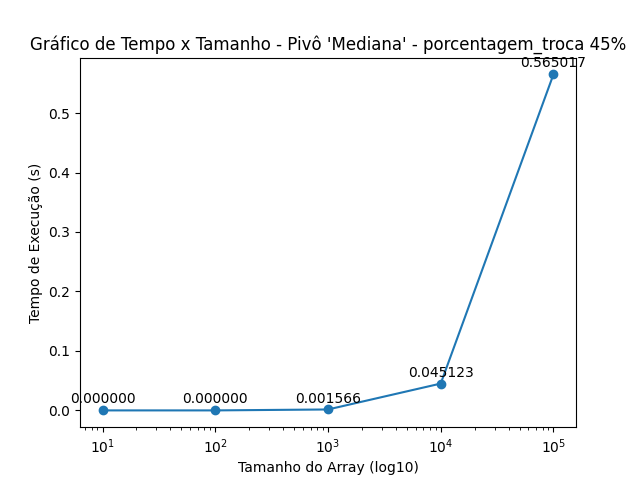
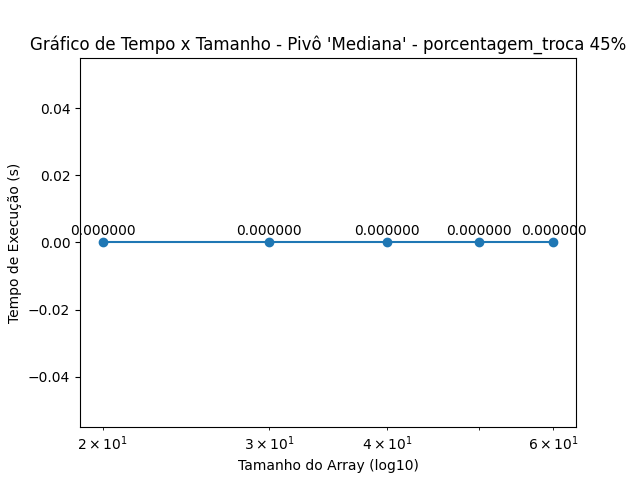
refatoração

diff --git a/QuickSort.py b/QuickSort.py
@@ -1,6 +1,10 @@
 import random
 import time
 
+import numpy as np
+
+from util import calcularMedia
+
 
 class QuickSort:
     def __init__(self, lista):
@@ -9,12 +13,10 @@ class QuickSort:
     def ordenar(self, array, metodo_pivo):
         tempo_inicio = time.time()
 
-        if(metodo_pivo == 6):
-            self.quick_sort_acha_pivo(array, 0, len(array) - 1)
-        else:
-            self.quick_sort(array, 0, len(array) - 1, metodo_pivo)
+        self.quickSort(array, 0, len(array) - 1, metodo_pivo)
 
         tempo_fim = time.time()
+        
         self.time = tempo_fim - tempo_inicio
 
     def seleciona_pivo(self, A, inicio, fim, metodo_pivo):
@@ -41,90 +43,78 @@ class QuickSort:
         # 5 – Pivô mediana
         elif metodo_pivo == 5:
             array = A[inicio:fim]
-            return self.find_median(array, len(array))
-            
-
-    # Function to perform quicksort
-    def quick_sort(self, A, start, end, metodo_pivo):
-        if start < end:
-            # p is pivot, it is now at its correct position
-            p = self.partition(A, start, end, metodo_pivo)
-            self.quick_sort(A, start, p, metodo_pivo)  # Corrigido
-            self.quick_sort(A, p+1, end, metodo_pivo)
-
-    def quick_sort_acha_pivo(self,L, n1, n2):
-        esq = n1
-        dir = n2
+            return self.buscaMediana(array, len(array))
         
-        pto = self.achaPivo(n1, n2, L)
-        
-        if pto != -1:
-            p = self.particao_acha_pivo(L, n1, n2, L[pto], pto)
-            self.quick_sort_acha_pivo(L, esq, p) 
-            self.quick_sort_acha_pivo(L, p + 1, dir)
+        # 6 – Pivô (Acha pivot)
+        elif metodo_pivo == 6:
+            return self.achaPivo(inicio, fim, A) 
 
+    def quickSort(self, array, low, high, pivot_type):
+        if low >= high:
+            return
 
-    def partition(self, A, start, end, metodo_pivo):
-        i = start-1  # left pointer
+        p = self.selecionaPivo(array, low, high, pivot_type)
+
+        if p is None:
+            return
+
+        i = low
+        j = high
+
+        while i <= j:
+            while array[i] < p:
+                i += 1
+
+            while array[j] > p:
+                j -= 1
+
+            if i <= j:
+                array[i], array[j] = array[j], array[i]
+                i += 1
+                j -= 1
+
+        if low < j:
+            self.quickSort(array, low, j, pivot_type)
+
+        if i < high:
+            self.quickSort(array, i, high, pivot_type)
+
+    def selecionaPivo(self, arr, low, high, pivot_type):
         
-        array = A[start:end]
-        pivot = self.seleciona_pivo(A, start, end, metodo_pivo)
-        
-        j = end + 1  # right pointer
+        if pivot_type == 1:
+            return arr[low]
+
+        if pivot_type == 2:
+            return arr[(high + low)//2]
+
+        if pivot_type == 3:
+            return calcularMedia(arr, low, high)
+
+        if pivot_type == 4:
+            return arr[np.random.randint(low, high+1)]
+
+        if pivot_type == 5:
+            array = arr[low:high]
+            return self.buscaMediana( array, len( array))
+
+        if pivot_type == 6:
+            return self.achaPivo(arr, low, high)
+
+    def achaPivo(self, L, n1, n2):
+        pos = n1 + 1
+        pivo = None
         while True:
-            i += 1
-            while (A[i] < pivot):
-                i += 1  # move left pointer to right
-            j -= 1
-            
-            while (A[j] > pivot):
-                j -= 1  # move right pointer to left
-                
-            if i >= j:
-                return j  # stop, pivot moved to its correct position
-            
-            A[i], A[j] = A[j], A[i]
-    
-    def particao_acha_pivo(self, L, n1, n2, pivo, p):
-        esq = n1
-        dir = n2
-        
-        while True:
-            while L[esq] <= pivo:
-                esq = esq + 1
-            while L[dir] > pivo:
-                dir = dir - 1
-            
-            if esq >= dir:
-                return dir  # Retorna o novo valor de p após a partição
-
-            # Troca L[esq] e L[dir]
-            L[esq], L[dir] = L[dir], L[esq]
-
-
-    def achaPivo(self, n1, n2, L):
-        esq = n1
-        dir = n2
-        pos = esq + 1
-        pto = -1
-        
-        while True:
-            if pos > dir:
+            if pos > n2:
                 break
+            elif L[pos] >= L[pos-1]:
+                pos += 1
             else:
-                if L[pos] >= L[pos - 1]:
-                    pos = pos + 1
-                else:
-                    pto = pos
-                    break
-        
-        # Retornar o ponto de inflexão encontrado
-        return pto
+                pivo = pos-1
+                break
 
-    def calcula_media(self, a, b, c):
-        return (a + b + c) // 3
+        return L[pivo] if pivo is not None else pivo
 
-    def particion_mediana(self, arr, l, r) : 
+    def particaoMediana(self, arr, l, r) : 
  
         lst = arr[r]; i = l; j = l; 
         while (j < r) :
@@ -137,13 +127,13 @@ class QuickSort:
         arr[i], arr[r] = arr[r],arr[i]; 
         return i; 
 
-    def random_partition_medina(self, arr, l, r) :
+    def particaoAleatorioMediana(self, arr, l, r) :
         n = r - l + 1
         pivot = random.randrange(1, 100) % n
         arr[l + pivot], arr[r] = arr[r], arr[l + pivot]
-        return self.particion_mediana(arr, l, r); 
+        return self.particaoMediana(arr, l, r); 
     
-    def median_util(self, arr, l, r, 
+    def utilMediana(self, arr, l, r, 
                     k, a1, b1) : 
     
         global a, b
@@ -151,7 +141,7 @@ class QuickSort:
         # if l < r
         if (l <= r) :
         
-            partitionIndex = self.random_partition_medina(arr, l, r)
+            partitionIndex = self.particaoAleatorioMediana(arr, l, r)
             
             if (partitionIndex == k) :
                 b = arr[partitionIndex]
@@ -164,25 +154,25 @@ class QuickSort:
                     return
     
             if (partitionIndex >= k) :
-                return self.median_util(arr, l, partitionIndex - 1, k, a, b)
+                return self.utilMediana(arr, l, partitionIndex - 1, k, a, b)
                 
             else :
-                return self.median_util(arr, partitionIndex + 1, r, k, a, b)
+                return self.utilMediana(arr, partitionIndex + 1, r, k, a, b)
                 
         return; 
     
-    def find_median(self, arr, n) :
+    def buscaMediana(self, arr, n) :
         global a
         global b
         a = -1
         b = -1
         
         if (n % 2 == 1) :
-            self.median_util(arr, 0, n - 1, n // 2, a, b)
+            self.utilMediana(arr, 0, n - 1, n // 2, a, b)
             ans = b
             
         else :
-            self.median_util(arr, 0, n - 1, n // 2, a, b)
+            self.utilMediana(arr, 0, n - 1, n // 2, a, b)
             ans = (a + b) // 2
             
         return ans

diff --git a/main.py b/main.py
@@ -1,23 +1,26 @@
+import random
 from QuickSort import QuickSort
-from mediana import trocar_porcentagem
-from util import plotar_e_salvar_grafico
+from util import plotar_e_salvar_grafico, trocar_porcentagem
 
 quantidade_iteracoes = 10
 
 tamanhos_array = [int(1e1) , int(1e2), int(1e3), int(1e4), int(1e5), int(1e6), int(1e7)]
-tamanhos_array = [int(1e1) , int(1e2), int(1e3), int(1e4), int(1e5)]
-# tamanhos_array = [10, 20, 30, 40, 50]
+# tamanhos_array = [int(1e1) , int(1e2), int(1e3), int(1e4), int(1e5)]
+# tamanhos_array = [20, 30, 40, 50, 60]
 
 porcentagens_troca = [5, 25, 45]
 
-metodos_pivo = [1, 2, 3, 4, 5, 6]
+metodos_pivo = [1, 2, 3, 4, 6, 5]
 
 metodos_pivo_nome = ["Primeiro", "Central",
                      "Média", "Randômico", "Mediana", "Acha Pivo"]
 
+# funcao que retorna uma lista ordenada de tamanho n, com elementos aleatorios sorteados de 0 a n
+
 if __name__ == "__main__":
 
     for metodo_pivo in metodos_pivo:
+        
         for porcentagem_troca in porcentagens_troca:
 
             tamanhos_na_iteracao = []
@@ -31,9 +34,12 @@ if __name__ == "__main__":
                 
                 for iteracao in range(quantidade_iteracoes):
                     
-                    # Criando uma lista aleatória para ordenar
+                    # Criando uma lista aleatória para ordenar (0, 1, 2, 3, ...,  n -2, n -1) ordenada (rapido)
                     lista_aleatoria = list(range(tamanho_array))
-
+                    
+                    # Criando uma lista aleatória para ordenar (0 - n randomicos) ordenada (lento)
+                    # lista_aleatoria = lista_aleatoria_array(tamanho_array)
+                    
                     # Embaralhando a lista aleatória
                     trocar_porcentagem(lista_aleatoria, porcentagem_troca)
                     
@@ -49,13 +55,13 @@ if __name__ == "__main__":
                     tempo += quick_sort.time
                     
                     print(
-                        f"\n\nIteração {iteracao}, Pivô '{metodos_pivo_nome[metodo_pivo-1]}', tamanho_array {tamanho_array}, tempo {quick_sort.time}, porcentagem_troca {porcentagem_troca}%\n")
+                        f"\n\nIteração {iteracao + 1}, Pivô '{metodos_pivo_nome[metodo_pivo-1]}', tamanho_array {tamanho_array}, tempo {quick_sort.time}, porcentagem_troca {porcentagem_troca}%\n")
                     
                     # Lista anterior
-                    # print("Lista Desordenada: ", lista_aleatoria)
+                    print("Lista Desordenada: ", lista_aleatoria)
                     
                     # Exibindo o resultado
-                    # print("\nLista Ordenada", lista_ordenada)
+                    print("\nLista Ordenada", lista_ordenada)
                     
                 tamanhos_na_iteracao.append(tamanho_array)
                 tempo_na_iteracao.append(tempo/quantidade_iteracoes)

diff --git a/util.py b/util.py
@@ -3,6 +3,14 @@ import random
 import os
 import matplotlib.pyplot as plt
 
+def lista_aleatoria_array(n):
+    lista = list()
+    for _ in range(n):
+        lista.append(random.randint(0, n))
+    
+    lista.sort()
+    return lista
+
 def trocar_porcentagem(array, porcentagem):
     if porcentagem < 0 or porcentagem > 100:
         raise ValueError("A porcentagem deve estar entre 0 e 100.")
@@ -41,3 +49,6 @@ def plotar_e_salvar_grafico(tempo, tamanho, titulo, nome_arquivo):
     # Salva a figura na pasta 'grafico'
     caminho_arquivo = os.path.join('grafico', nome_arquivo)
     plt.savefig(caminho_arquivo)
+
+def calcularMedia(arr, low, high):    
+    return (arr[high] +  arr[(high + low) // 2] + arr[low]) // 3
